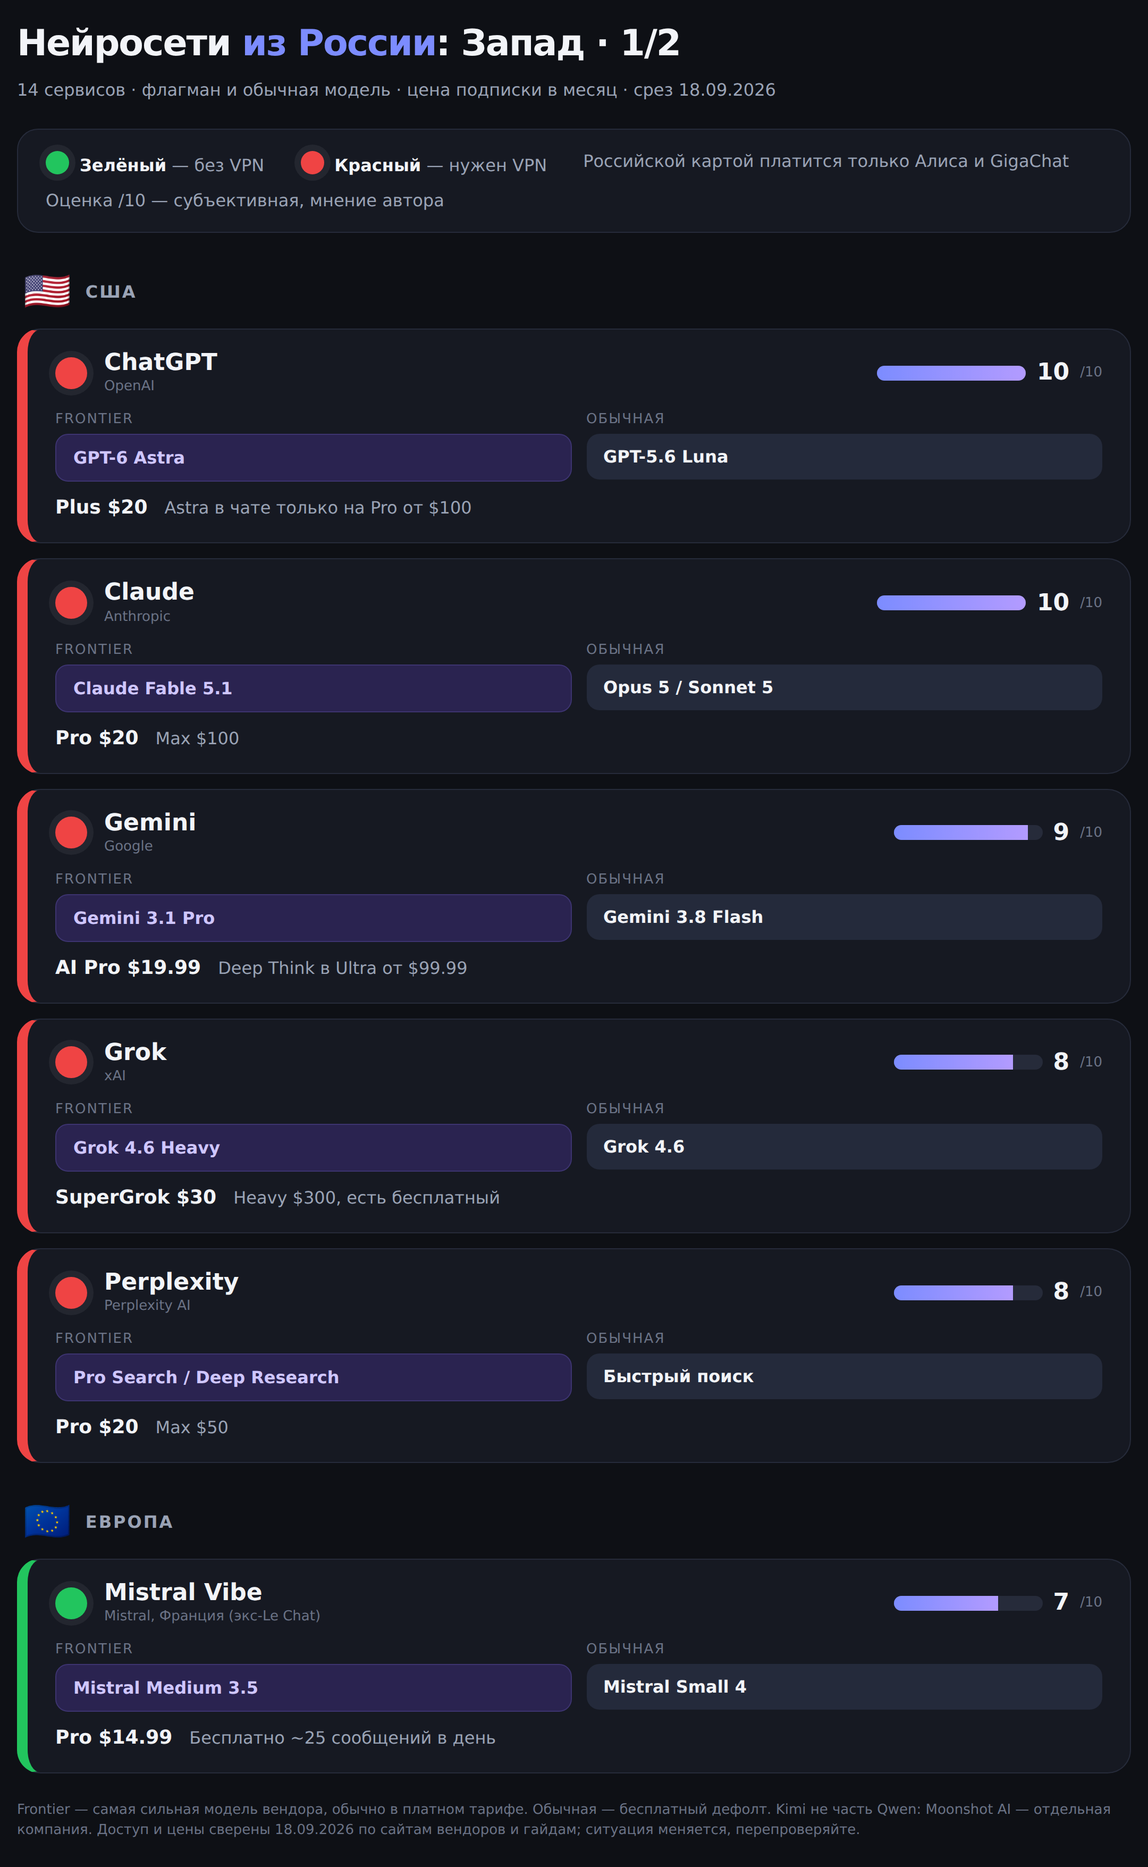
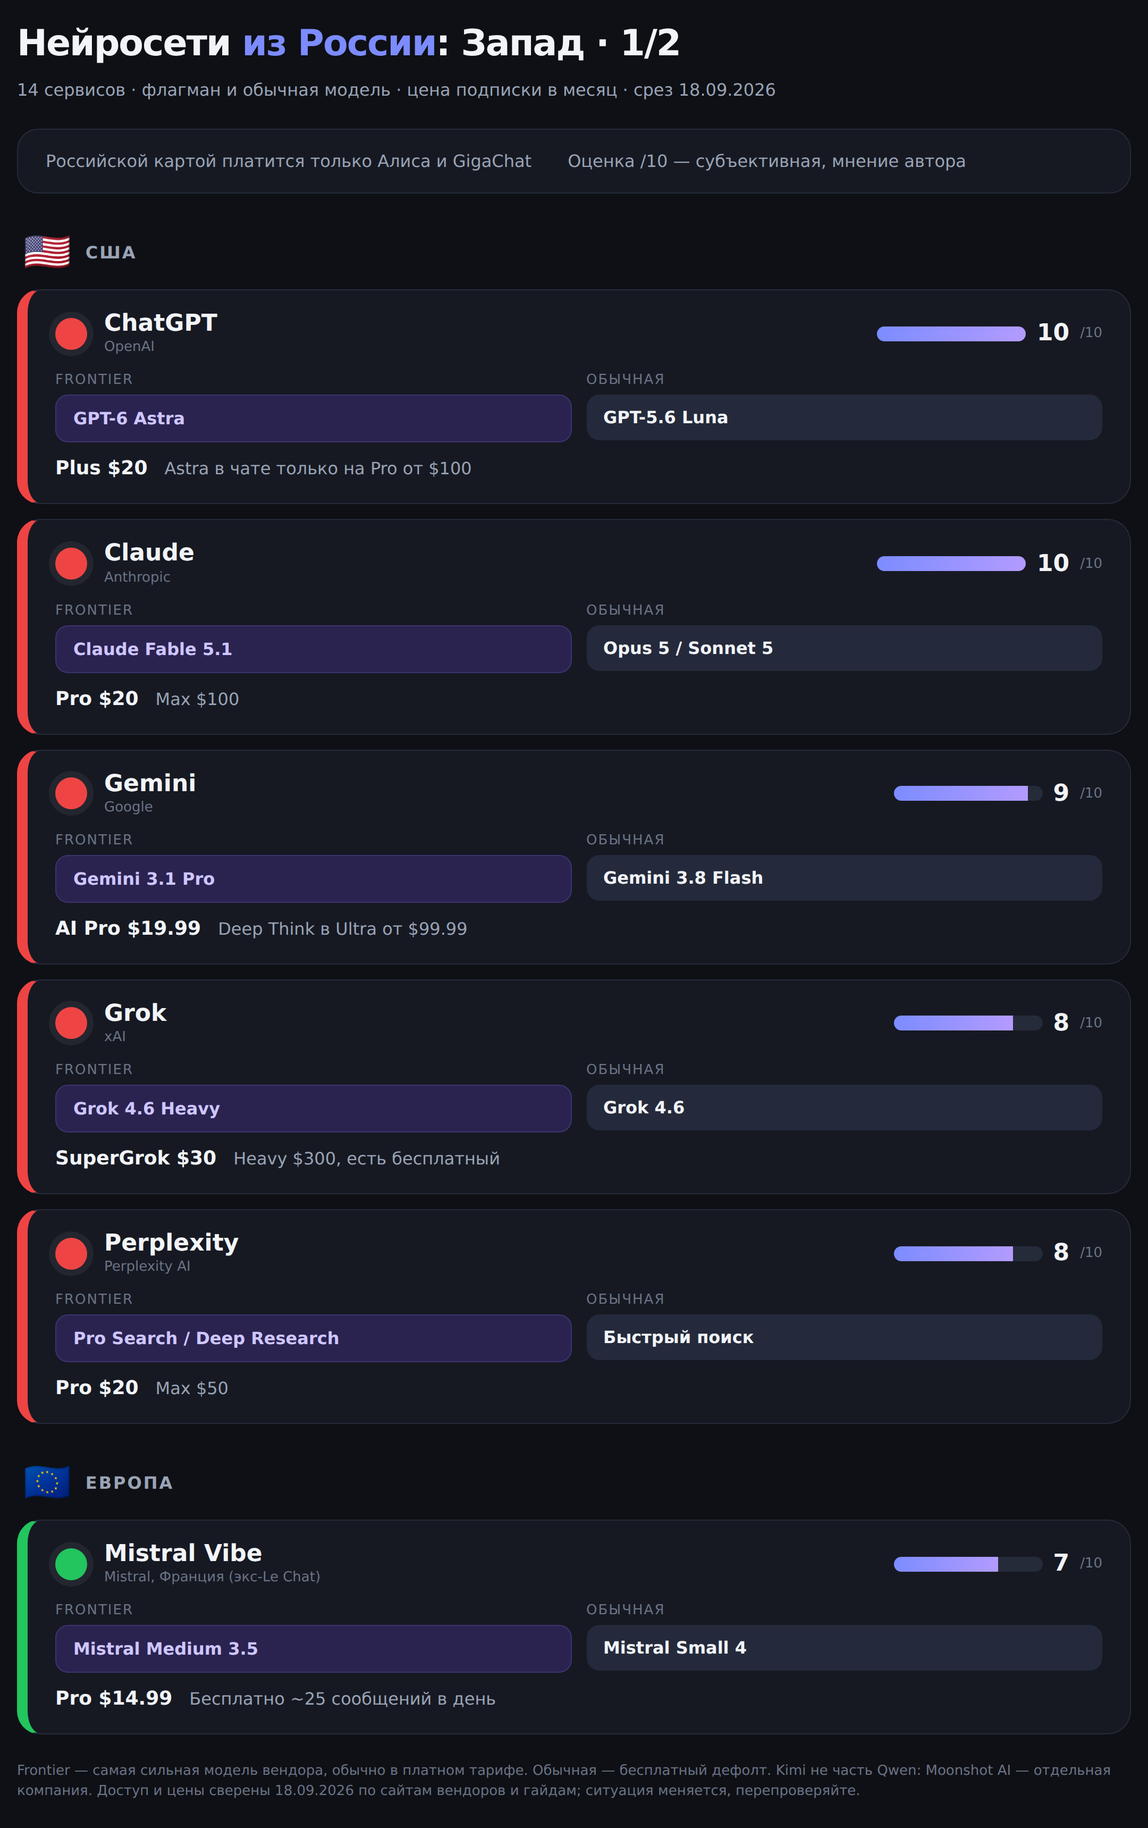
Move dot legend to a footnote and drop the VPN wording
Claude-Session: https://claude.ai/code/session_01GbjW8bxEQgz9oMArHuc3aS

diff --git a/posts/ai-models-russia/index.html b/posts/ai-models-russia/index.html
@@ -42,6 +42,10 @@
     .call{margin-top:34px;background:linear-gradient(135deg,#1a1f33,#141827);border:1px solid #33396b;border-radius:22px;padding:24px 28px;font-size:28px;line-height:1.4}
     .call b{color:#cfc6ff}
     footer{margin-top:26px;color:var(--dim);font-size:22px;line-height:1.45}
+  footer.dots{color:var(--muted);font-size:26px;margin-top:34px;padding-top:22px;border-top:1px solid var(--line)}
+  footer.dots b{color:var(--text)}
+  footer.dots .dot{width:22px;height:22px;display:inline-block;vertical-align:-3px;margin-right:10px;box-shadow:none}
+  footer.dots .g{background:var(--green)} footer.dots .r{background:var(--red)}
     @media (max-width:1100px){.wrap{width:100%;padding:24px 16px} h1{font-size:34px} .sub,.legend,.chip,.price,.call{font-size:16px}
       .name{font-size:22px} .co,.m small,.score span,footer{font-size:13px} .score b{font-size:22px} .price b{font-size:18px} h2{font-size:16px}}
   </style>
@@ -51,8 +55,6 @@
     <h1>Какие нейросети работают <span>из России</span></h1>
     <p class="sub">14 сервисов · флагман и обычная модель · цена подписки в месяц · срез 18.09.2026</p>
     <div class="legend">
-      <span><span class="dot g"></span><b>Зелёный</b> — без VPN</span>
-      <span><span class="dot r"></span><b>Красный</b> — нужен VPN</span>
       <span>Российской картой платится только Алиса и GigaChat</span>
       <span>Оценка /10 — субъективная, мнение автора</span>
     </div>
@@ -219,8 +221,9 @@
     </article>
   </section>
 
-    <div class="call"><b>Прогноз автора:</b> Qwen скоро выстрелит. Это единственная модель уровня топ-3, которая открывается из России без VPN и без регистрации по иностранному номеру, а картинки, код и агенты уже в одном чате.</div>
-    <footer>Frontier — самая сильная модель вендора, обычно в платном тарифе. Обычная — бесплатный дефолт. Kimi не часть Qwen: Moonshot AI — отдельная компания. Доступ и цены сверены 18.09.2026 по сайтам вендоров и гайдам; ситуация меняется, перепроверяйте.</footer>
+    <div class="call"><b>Прогноз автора:</b> Qwen скоро выстрелит. Это единственная модель уровня топ-3, которая открывается из России напрямую и без регистрации по иностранному номеру, а картинки, код и агенты уже в одном чате.</div>
+    <footer class="dots"><span class="dot g"></span><b>Зелёный</b> — открывается из России напрямую, сразу.&nbsp;&nbsp;<span class="dot r"></span><b>Красный</b> — напрямую не открывается, нужен обходной путь.</footer>
+  <footer>Frontier — самая сильная модель вендора, обычно в платном тарифе. Обычная — бесплатный дефолт. Kimi не часть Qwen: Moonshot AI — отдельная компания. Доступ и цены сверены 18.09.2026 по сайтам вендоров и гайдам; ситуация меняется, перепроверяйте.</footer>
   </div>
   </body>
   </html>

diff --git a/posts/ai-models-russia/part2.html b/posts/ai-models-russia/part2.html
@@ -42,6 +42,10 @@
     .call{margin-top:34px;background:linear-gradient(135deg,#1a1f33,#141827);border:1px solid #33396b;border-radius:22px;padding:24px 28px;font-size:28px;line-height:1.4}
     .call b{color:#cfc6ff}
     footer{margin-top:26px;color:var(--dim);font-size:22px;line-height:1.45}
+  footer.dots{color:var(--muted);font-size:26px;margin-top:34px;padding-top:22px;border-top:1px solid var(--line)}
+  footer.dots b{color:var(--text)}
+  footer.dots .dot{width:22px;height:22px;display:inline-block;vertical-align:-3px;margin-right:10px;box-shadow:none}
+  footer.dots .g{background:var(--green)} footer.dots .r{background:var(--red)}
     @media (max-width:1100px){.wrap{width:100%;padding:24px 16px} h1{font-size:34px} .sub,.legend,.chip,.price,.call{font-size:16px}
       .name{font-size:22px} .co,.m small,.score span,footer{font-size:13px} .score b{font-size:22px} .price b{font-size:18px} h2{font-size:16px}}
   </style>
@@ -51,8 +55,6 @@
     <h1>Нейросети <span>из России</span>: Китай и РФ · 2/2</h1>
     <p class="sub">14 сервисов · флагман и обычная модель · цена подписки в месяц · срез 18.09.2026</p>
     <div class="legend">
-      <span><span class="dot g"></span><b>Зелёный</b> — без VPN</span>
-      <span><span class="dot r"></span><b>Красный</b> — нужен VPN</span>
       <span>Российской картой платится только Алиса и GigaChat</span>
       <span>Оценка /10 — субъективная, мнение автора</span>
     </div>
@@ -149,8 +151,9 @@
     </article>
   </section>
 
-    <div class="call"><b>Прогноз автора:</b> Qwen скоро выстрелит. Это единственная модель уровня топ-3, которая открывается из России без VPN и без регистрации по иностранному номеру, а картинки, код и агенты уже в одном чате.</div>
-    <footer>Frontier — самая сильная модель вендора, обычно в платном тарифе. Обычная — бесплатный дефолт. Kimi не часть Qwen: Moonshot AI — отдельная компания. Доступ и цены сверены 18.09.2026 по сайтам вендоров и гайдам; ситуация меняется, перепроверяйте.</footer>
+    <div class="call"><b>Прогноз автора:</b> Qwen скоро выстрелит. Это единственная модель уровня топ-3, которая открывается из России напрямую и без регистрации по иностранному номеру, а картинки, код и агенты уже в одном чате.</div>
+    <footer class="dots"><span class="dot g"></span><b>Зелёный</b> — открывается из России напрямую, сразу.&nbsp;&nbsp;<span class="dot r"></span><b>Красный</b> — напрямую не открывается, нужен обходной путь.</footer>
+  <footer>Frontier — самая сильная модель вендора, обычно в платном тарифе. Обычная — бесплатный дефолт. Kimi не часть Qwen: Moonshot AI — отдельная компания. Доступ и цены сверены 18.09.2026 по сайтам вендоров и гайдам; ситуация меняется, перепроверяйте.</footer>
   </div>
   </body>
   </html>

diff --git a/posts/ai-models-russia/part1.html b/posts/ai-models-russia/part1.html
@@ -42,6 +42,10 @@
     .call{margin-top:34px;background:linear-gradient(135deg,#1a1f33,#141827);border:1px solid #33396b;border-radius:22px;padding:24px 28px;font-size:28px;line-height:1.4}
     .call b{color:#cfc6ff}
     footer{margin-top:26px;color:var(--dim);font-size:22px;line-height:1.45}
+  footer.dots{color:var(--muted);font-size:26px;margin-top:34px;padding-top:22px;border-top:1px solid var(--line)}
+  footer.dots b{color:var(--text)}
+  footer.dots .dot{width:22px;height:22px;display:inline-block;vertical-align:-3px;margin-right:10px;box-shadow:none}
+  footer.dots .g{background:var(--green)} footer.dots .r{background:var(--red)}
     @media (max-width:1100px){.wrap{width:100%;padding:24px 16px} h1{font-size:34px} .sub,.legend,.chip,.price,.call{font-size:16px}
       .name{font-size:22px} .co,.m small,.score span,footer{font-size:13px} .score b{font-size:22px} .price b{font-size:18px} h2{font-size:16px}}
   </style>
@@ -51,8 +55,6 @@
     <h1>Нейросети <span>из России</span>: Запад · 1/2</h1>
     <p class="sub">14 сервисов · флагман и обычная модель · цена подписки в месяц · срез 18.09.2026</p>
     <div class="legend">
-      <span><span class="dot g"></span><b>Зелёный</b> — без VPN</span>
-      <span><span class="dot r"></span><b>Красный</b> — нужен VPN</span>
       <span>Российской картой платится только Алиса и GigaChat</span>
       <span>Оценка /10 — субъективная, мнение автора</span>
     </div>

diff --git a/posts/ai-models-russia/build.py b/posts/ai-models-russia/build.py
@@ -85,6 +85,10 @@ for fname,(title,sections,with_call) in parts.items():
     .call{{margin-top:34px;background:linear-gradient(135deg,#1a1f33,#141827);border:1px solid #33396b;border-radius:22px;padding:24px 28px;font-size:28px;line-height:1.4}}
     .call b{{color:#cfc6ff}}
     footer{{margin-top:26px;color:var(--dim);font-size:22px;line-height:1.45}}
+  footer.dots{{color:var(--muted);font-size:26px;margin-top:34px;padding-top:22px;border-top:1px solid var(--line)}}
+  footer.dots b{{color:var(--text)}}
+  footer.dots .dot{{width:22px;height:22px;display:inline-block;vertical-align:-3px;margin-right:10px;box-shadow:none}}
+  footer.dots .g{{background:var(--green)}} footer.dots .r{{background:var(--red)}}
     @media (max-width:1100px){{.wrap{{width:100%;padding:24px 16px}} h1{{font-size:34px}} .sub,.legend,.chip,.price,.call{{font-size:16px}}
       .name{{font-size:22px}} .co,.m small,.score span,footer{{font-size:13px}} .score b{{font-size:22px}} .price b{{font-size:18px}} h2{{font-size:16px}}}}
   </style>
@@ -94,14 +98,13 @@ for fname,(title,sections,with_call) in parts.items():
     <h1>{title}</h1>
     <p class="sub">14 сервисов · флагман и обычная модель · цена подписки в месяц · срез 18.09.2026</p>
     <div class="legend">
-      <span><span class="dot g"></span><b>Зелёный</b> — без VPN</span>
-      <span><span class="dot r"></span><b>Красный</b> — нужен VPN</span>
       <span>Российской картой платится только Алиса и GigaChat</span>
       <span>Оценка /10 — субъективная, мнение автора</span>
     </div>
   {sections}
-    <div class="call"><b>Прогноз автора:</b> Qwen скоро выстрелит. Это единственная модель уровня топ-3, которая открывается из России без VPN и без регистрации по иностранному номеру, а картинки, код и агенты уже в одном чате.</div>
-    <footer>Frontier — самая сильная модель вендора, обычно в платном тарифе. Обычная — бесплатный дефолт. Kimi не часть Qwen: Moonshot AI — отдельная компания. Доступ и цены сверены 18.09.2026 по сайтам вендоров и гайдам; ситуация меняется, перепроверяйте.</footer>
+    <div class="call"><b>Прогноз автора:</b> Qwen скоро выстрелит. Это единственная модель уровня топ-3, которая открывается из России напрямую и без регистрации по иностранному номеру, а картинки, код и агенты уже в одном чате.</div>
+    <footer class="dots"><span class="dot g"></span><b>Зелёный</b> — открывается из России напрямую, сразу.&nbsp;&nbsp;<span class="dot r"></span><b>Красный</b> — напрямую не открывается, нужен обходной путь.</footer>
+  <footer>Frontier — самая сильная модель вендора, обычно в платном тарифе. Обычная — бесплатный дефолт. Kimi не часть Qwen: Moonshot AI — отдельная компания. Доступ и цены сверены 18.09.2026 по сайтам вендоров и гайдам; ситуация меняется, перепроверяйте.</footer>
   </div>
   </body>
   </html>

diff --git a/posts/ai-models-russia/post.md b/posts/ai-models-russia/post.md
@@ -1,18 +1,18 @@
 🧭 Какие нейросети работают из России — карта на сентябрь 2026
 
-Все пользуются всеми моделями подряд, поэтому собрал две картинки: 14 сервисов, у каждого флагман и обычная модель, цена подписки и главное — шарик: зелёный работает без VPN, красный — нужен VPN.
+Все пользуются всеми моделями подряд, поэтому собрал две картинки: 14 сервисов, у каждого флагман и обычная модель, цена подписки и главное — шарик: зелёный открывается из России напрямую, красный — напрямую не открывается.
 
-🟢 Без VPN: DeepSeek, Qwen, Z.ai (GLM), MiniMax, Mistral Vibe, GigaChat, Алиса AI
-🔴 Нужен VPN: ChatGPT, Claude, Gemini, Grok, Perplexity, Kimi, Doubao
+🟢 Напрямую: DeepSeek, Qwen, Z.ai (GLM), MiniMax, Mistral Vibe, GigaChat, Алиса AI
+🔴 Напрямую нет: ChatGPT, Claude, Gemini, Grok, Perplexity, Kimi, Doubao
 
 Что удивило при проверке:
 — DeepSeek снял V4 Pro 14 сентября, теперь всё крутится на V4.1 Flash. И по-прежнему бесплатно.
 — GPT-6 Astra в обычном чате только на Pro за $100. На Plus за $20 — GPT-5.6.
-— Kimi — это Moonshot AI, отдельная компания, а не часть Qwen. И без VPN не открывается.
+— Kimi — это Moonshot AI, отдельная компания, а не часть Qwen. И напрямую из России не открывается.
 — Российской картой платятся только Алиса (648 ₽ с Плюсом) и GigaChat. У остальных зелёный значит «бесплатный тариф работает», а не «можно купить подписку».
 
 Оценки — моё субъективное мнение, не бенчмарк.
 
-Мой прогноз: Qwen скоро выстрелит. Единственная модель уровня топ-3, которая открывается из России без VPN и без танцев с регистрацией, и там же картинки, код и агенты.
+Мой прогноз: Qwen скоро выстрелит. Единственная модель уровня топ-3, которая открывается из России напрямую и без танцев с регистрацией, и там же картинки, код и агенты.
 
 Следующим шагом сделаю интерактив: один короткий промпт, и как на него отвечает каждая модель. Пишите в комментариях, какой промпт дать.
